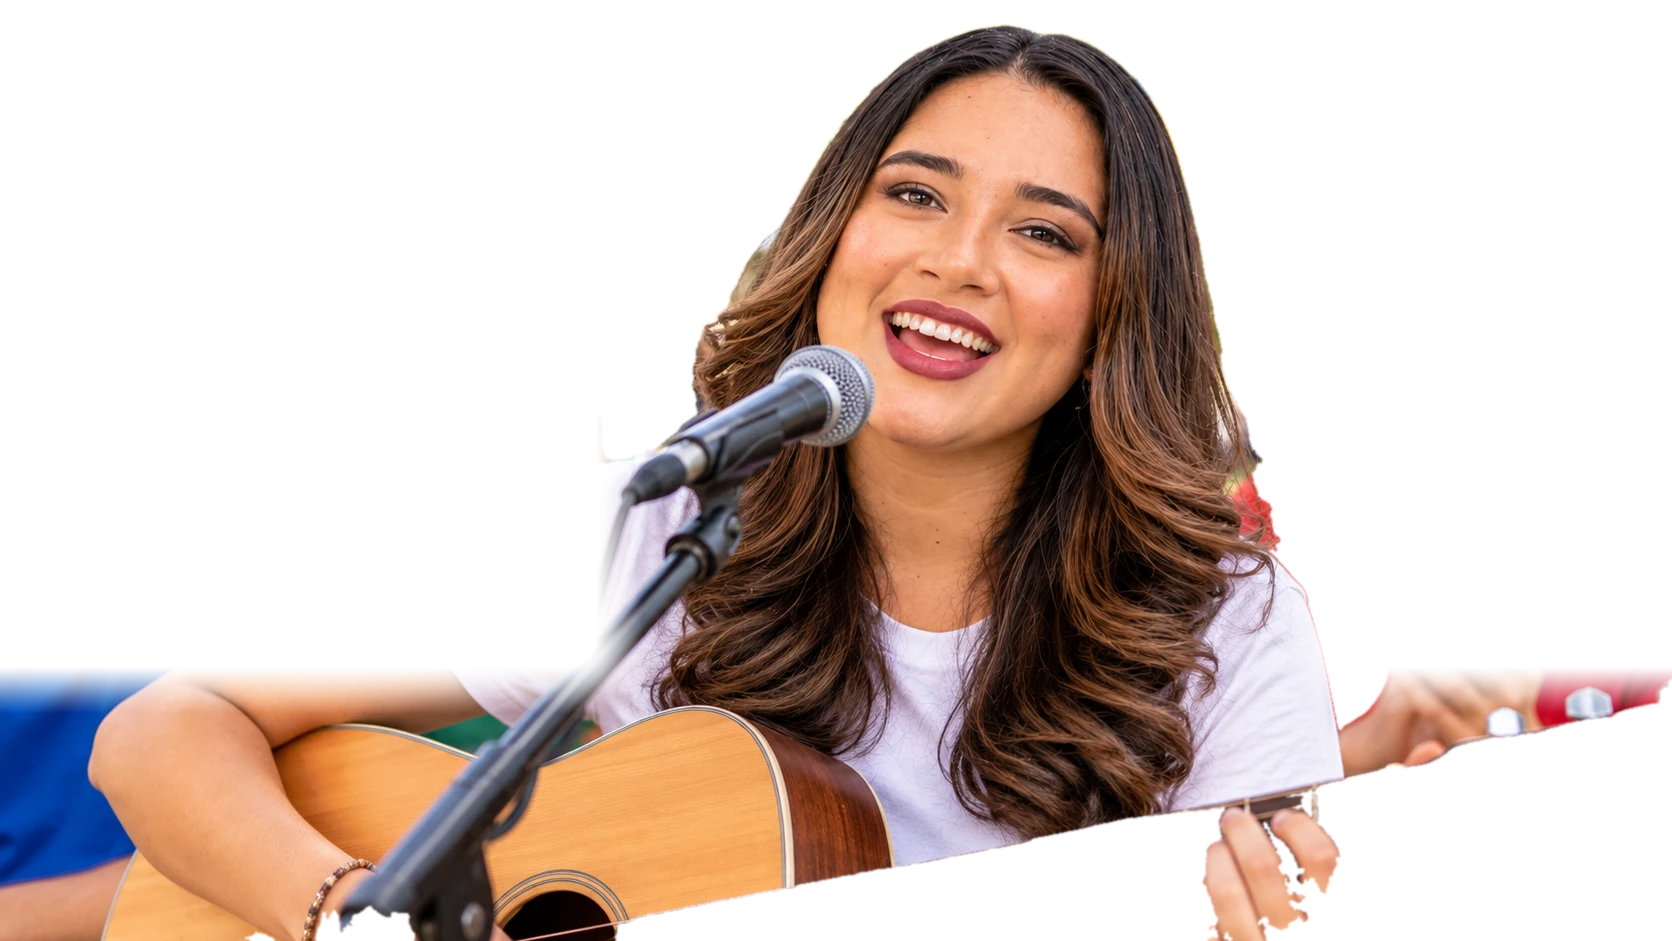
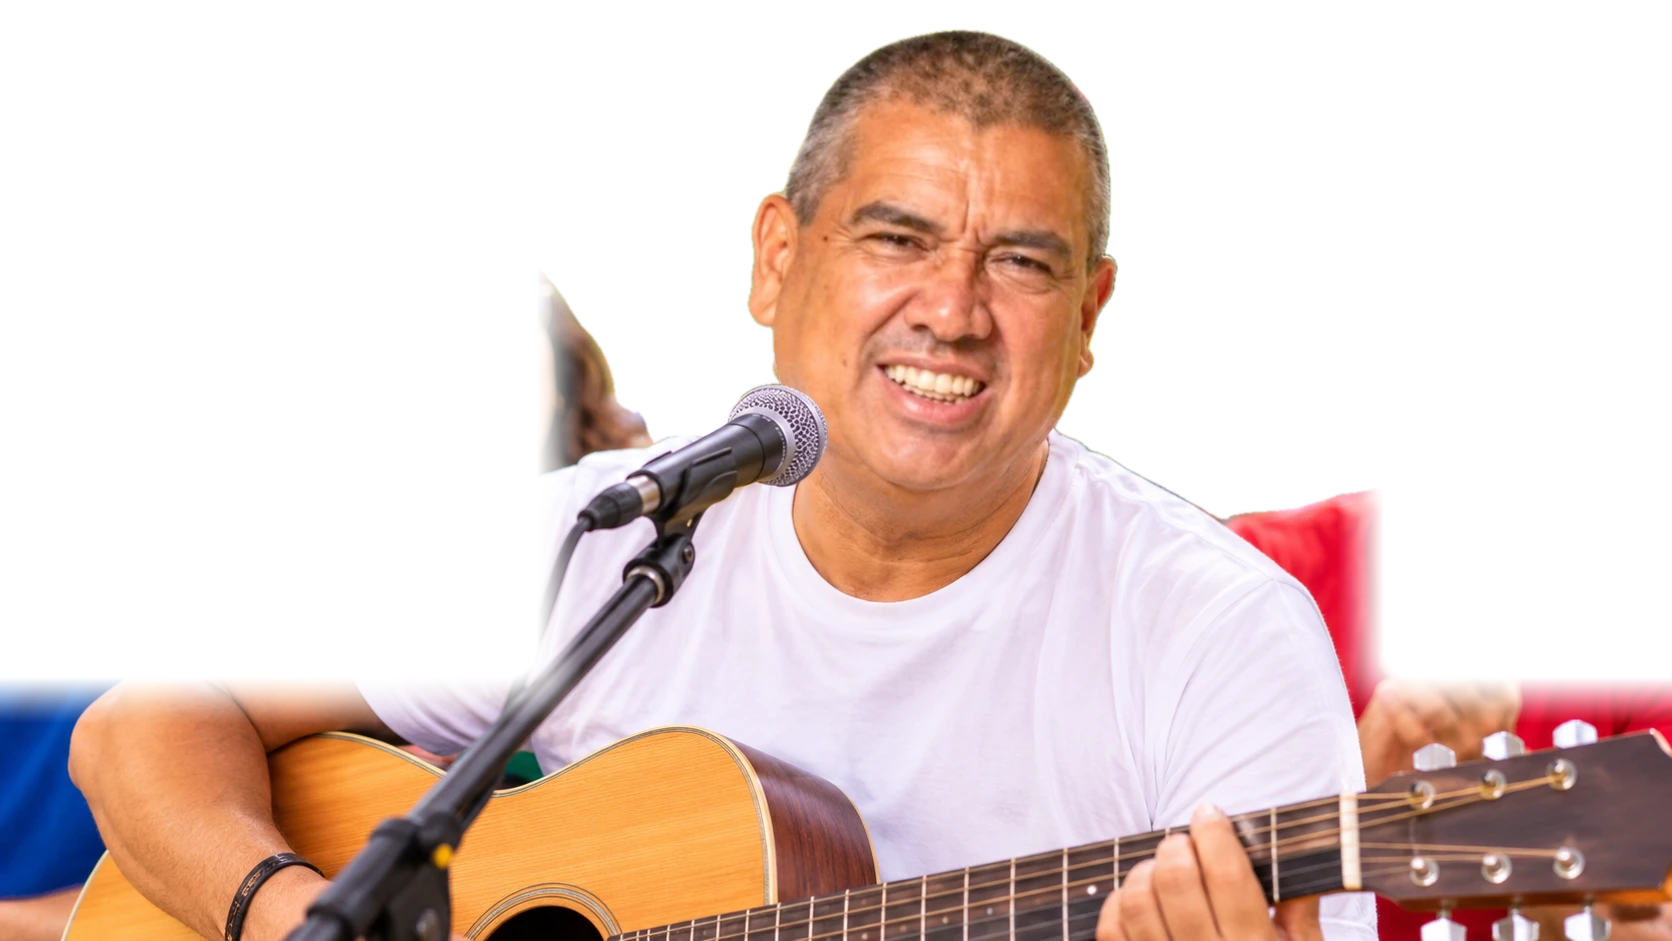
Promo evento: new singer photo, clean statues, flat backgrounds, shirt-color note, 9:00, teams 8 s with shorter bigger names
Claude-Session: https://claude.ai/code/session_01XV7Zhs1JRrkW5hokRDRSy2

diff --git a/videos/promo-encuentro-comunica/index.html b/videos/promo-encuentro-comunica/index.html
@@ -25,7 +25,7 @@
       .ph { position: absolute; left: 0; top: 0; width: 1920px; height: 1080px; transform-origin: 50% 45%; }
       .ph img { position: absolute; inset: 0; width: 1920px; height: 1080px; display: block; }
       /* degradé con transparencia de los 3 colores de COMUNICA: tiñe todo menos al protagonista */
-      .tint { position: absolute; inset: 0; background: linear-gradient(118deg, rgba(244, 187, 26, 0.34) 0%, rgba(26, 166, 212, 0.3) 52%, rgba(54, 192, 196, 0.36) 100%); }
+      .tint { position: absolute; inset: 0; background: rgba(26, 166, 212, 0.28); }
       .shade { position: absolute; inset: 0; background: linear-gradient(0deg, rgba(10, 40, 60, 0.75) 0%, rgba(10, 40, 60, 0.25) 42%, rgba(10, 40, 60, 0) 60%); }
       /* título gigante detrás de la persona */
       .big { position: absolute; left: 0; top: -20px; width: 1920px; text-align: center; font-weight: 900; font-stretch: 115%; font-size: 360px; line-height: 1; letter-spacing: -0.01em; color: transparent; -webkit-text-stroke: 4px rgba(255, 255, 255, 0.95); white-space: nowrap; }
@@ -53,17 +53,17 @@
       .team .side { position: absolute; left: 100px; top: 230px; width: 560px; }
       .team .chip { width: 150px; height: 150px; border-radius: 50%; border: 8px solid #fff; box-shadow: 0 16px 40px rgba(0, 0, 0, 0.25); }
       .team .k2 { margin-top: 34px; display: inline-block; padding: 8px 22px 10px; background: #fff; color: #1f2124; font-weight: 800; font-size: 28px; letter-spacing: 0.18em; }
-      .team .tn { margin-top: 12px; font-weight: 900; font-stretch: 105%; font-size: 112px; line-height: 0.92; }
+      .team .tn { margin-top: 12px; font-weight: 900; font-stretch: 105%; font-size: 124px; line-height: 0.92; }
       .team .tc { margin-top: 14px; font-weight: 700; font-size: 38px; opacity: 0.9; }
-      .team .list { position: absolute; left: 690px; right: 80px; top: 120px; display: grid; grid-template-columns: 1fr 1fr; gap: 16px 26px; }
-      .team .pp { display: flex; align-items: center; gap: 18px; background: rgba(255, 255, 255, 0.96); color: #1f2124; border-radius: 16px; padding: 14px 20px; min-height: 104px; font-weight: 700; font-stretch: 82%; line-height: 1.12; box-shadow: 0 10px 26px rgba(0, 0, 0, 0.16); white-space: nowrap; overflow: hidden; }
+      .team .list { position: absolute; left: 680px; right: 70px; top: 90px; display: grid; grid-template-columns: 1fr 1fr; gap: 16px 26px; }
+      .team .pp { display: flex; align-items: center; gap: 18px; background: rgba(255, 255, 255, 0.96); color: #1f2124; border-radius: 16px; padding: 14px 20px; min-height: 112px; font-weight: 700; font-stretch: 85%; line-height: 1.12; box-shadow: 0 10px 26px rgba(0, 0, 0, 0.16); white-space: nowrap; overflow: hidden; }
       .team .pp i { flex: none; width: 46px; height: 46px; border-radius: 50%; display: flex; align-items: center; justify-content: center; font-style: normal; font-weight: 900; font-size: 24px; font-stretch: 100%; }
       .dot { position: absolute; border-radius: 50%; mix-blend-mode: multiply; }
     </style>
   </head>
   <body>
-    <div id="root" data-composition-id="main" data-start="0" data-duration="113" data-width="1920" data-height="1080">
-      <div id="stage" class="clip" data-start="0" data-duration="113" data-track-index="0">
+    <div id="root" data-composition-id="main" data-start="0" data-duration="146" data-width="1920" data-height="1080">
+      <div id="stage" class="clip" data-start="0" data-duration="146" data-track-index="0">
         <!-- Intro: logo Premios Comunica -->
         <div class="scene" id="s0" style="background: #002c4f">
           <div id="logo2">
@@ -89,7 +89,7 @@
         <!-- Reglas de las competencias -->
         <div class="scene" id="sR">
           <div class="ph" style="filter: blur(6px) saturate(1.1)"><img src="assets/fotos/cuerda.webp" alt="" /></div>
-          <div class="layer" style="background: linear-gradient(118deg, rgba(244, 187, 26, 0.86) 0%, rgba(26, 166, 212, 0.86) 52%, rgba(54, 192, 196, 0.88) 100%)"></div>
+          <div class="layer" style="background: rgba(26, 166, 212, 0.92)"></div>
           <div class="kick" style="position: absolute; left: 110px; top: 90px">01 · COMPETENCIAS</div>
           <div class="ttl" style="position: absolute; left: 110px; top: 150px; font-size: 104px">¿Cómo participamos?</div>
           <div id="stats" style="position: absolute; left: 110px; right: 110px; top: 340px; display: flex; gap: 40px">
@@ -98,16 +98,17 @@
             <div class="stat"><div class="n">1</div><div class="l">color<br />por equipo</div></div>
             <div class="stat"><div class="n">10</div><div class="l">puntos<br />por juego</div></div>
           </div>
-          <div id="rules" style="position: absolute; left: 110px; right: 110px; top: 720px">
+          <div id="rules" style="position: absolute; left: 110px; right: 110px; top: 680px">
             <div class="line" style="font-size: 46px; margin: 0">Todos participan <b>al menos en un juego</b>.</div>
             <div class="line" style="font-size: 46px">El equipo con más puntos gana <b>un premio para cada integrante</b>.</div>
+            <div class="kick" id="shirt" style="margin-top: 26px; font-size: 40px; letter-spacing: 0.06em; padding: 12px 28px 14px">TRAE UNA CAMISETA DEL COLOR DE TU EQUIPO</div>
           </div>
         </div>
 
         <!-- Los juegos -->
         <div class="scene" id="sJ">
           <div class="ph" style="filter: blur(6px)"><img src="assets/fotos/sacos.webp" alt="" /></div>
-          <div class="layer" style="background: linear-gradient(118deg, rgba(244, 187, 26, 0.86) 0%, rgba(26, 166, 212, 0.86) 52%, rgba(54, 192, 196, 0.88) 100%)"></div>
+          <div class="layer" style="background: rgba(26, 166, 212, 0.92)"></div>
           <div class="kick" style="position: absolute; left: 110px; top: 90px">01 · COMPETENCIAS</div>
           <div class="ttl" style="position: absolute; left: 110px; top: 150px; font-size: 104px">Los juegos</div>
           <div id="games" style="position: absolute; left: 110px; right: 110px; top: 330px; display: grid; grid-template-columns: 1fr 1fr; gap: 26px 40px">
@@ -121,7 +122,7 @@
         </div>
 
         <!-- Organización de equipos -->
-        <div class="scene" id="sO" style="background: linear-gradient(118deg, #f4bb1a 0%, #1aa6d4 52%, #36c0c4 100%)">
+        <div class="scene" id="sO" style="background: #1aa6d4">
           <div class="big" style="top: 700px; font-size: 360px; -webkit-text-stroke: 4px rgba(255, 255, 255, 0.6)">EQUIPOS</div>
           <div id="orgT" style="position: absolute; inset: 0; display: flex; flex-direction: column; align-items: center; justify-content: center; text-align: center">
             <div class="kick" style="font-size: 34px">INTEGRACIÓN COMUNICA EP 2026</div>
@@ -134,10 +135,10 @@
 
         <!-- Premios -->
         <div class="scene" id="s2" style="background: #fff">
-          <div class="layer" style="background: linear-gradient(118deg, rgba(244, 187, 26, 0.9) 0%, rgba(26, 166, 212, 0.88) 52%, rgba(54, 192, 196, 0.92) 100%)"></div>
+          <div class="layer" style="background: #1aa6d4"></div>
           <div class="big">PREMIOS</div>
           <div id="statues" style="position: absolute; left: 900px; top: 250px; width: 900px; height: 760px; filter: drop-shadow(0 24px 30px rgba(0, 30, 50, 0.35))">
-            <img src="assets/fotos/statues-cut.png" alt="" style="position: absolute; left: 0; bottom: 0; width: 900px; display: block" />
+            <img src="assets/fotos/statues-clean.png" alt="" style="position: absolute; left: 0; bottom: 0; width: 900px; display: block" />
           </div>
           <div class="shade"></div>
           <div class="info" style="max-width: 760px"><div class="kick">02</div><div class="ttl">Premios</div><div class="line">Premiaremos a los <b>ganadores de las nominaciones</b> de los Premios Comunica en todas sus categorías</div></div>
@@ -164,30 +165,30 @@
         </div>
 
         <!-- Info final -->
-        <div class="scene" id="s5" style="background: linear-gradient(118deg, #f4bb1a 0%, #1aa6d4 52%, #36c0c4 100%)">
+        <div class="scene" id="s5" style="background: #1aa6d4">
           <div class="dot" style="left: -160px; top: -200px; width: 700px; height: 700px; background: rgba(255, 255, 255, 0.18)"></div>
           <div class="dot" style="left: 1400px; top: 640px; width: 680px; height: 680px; background: rgba(255, 255, 255, 0.16)"></div>
           <div id="fin" style="position: absolute; inset: 0; display: flex; flex-direction: column; align-items: center; justify-content: center; text-align: center">
             <div class="kick" style="font-size: 34px">¡TE ESPERAMOS!</div>
             <div style="margin-top: 26px; font-weight: 900; font-stretch: 112%; font-size: 150px; line-height: 0.95; text-shadow: 0 8px 30px rgba(0, 40, 70, 0.25)">Sábado 12<br />de diciembre</div>
-            <div style="margin-top: 26px; font-weight: 700; font-size: 58px">2026 · desde las 8:00</div>
+            <div style="margin-top: 26px; font-weight: 700; font-size: 58px">2026 · desde las 9:00</div>
             <div style="margin-top: 30px; display: inline-block; padding: 14px 44px 18px; background: #fff; color: var(--ink); font-weight: 900; font-size: 64px; letter-spacing: 0.04em">CÍRCULO MILITAR</div>
           </div>
         </div>
 
-        <div class="layer" id="wipe" style="background: linear-gradient(118deg, #f4bb1a 0%, #1aa6d4 52%, #36c0c4 100%); clip-path: circle(0% at 50% 50%)"></div>
+        <div class="layer" id="wipe" style="background: #1aa6d4; clip-path: circle(0% at 50% 50%)"></div>
       </div>
     </div>
 
     <script>
       const tl = gsap.timeline({ paused: true });
-      const TEAMS = {"BLANCO": ["Jimenez Ortega Jorge Washington", "Jimenez Vicente Francisco Yofredy", "Sanchez Barahona Lenin", "Sangoquiza Castro Jairo Josue", "Aguilar Lopez Veronica de los Angeles", "Martinez Yanez Jorge Geovany", "Chasi Malliquinga Giovanny Javier", "Mantilla Orellana Carla Mildred", "Barcenes Lopez Paola Tatiana", "Martínez Yánez Juan Pablo", "Vintimilla Egas Sofia Carolina", "Dayana Rivas"], "NEGRO": ["Estrada Angueta Maria Lorena", "Cevallos Beltran Galo Javier", "Ayala Martinez Jorge Giovanny", "Mites Calderón Diana Isabel", "Noboa Garcia Andres Homero", "Gonzalez Gallegos Maria Gabriela", "Jaramillo Ruiz Javier Alejandro", "Cajamarca Rodriguez Christian Santiago", "Bastidas Sanchez Omar Roberto", "Espinosa Cabrera Jose Luis", "Suarez Andrade Jessica Jeanneth", "Wiltón Sánchez"], "AZUL": ["Mendieta Cabrera Gladis Teresa", "Bazantes Fernandez Emerson Rommel", "Sanchez Arias Nelson Samuel", "Barrera Romero Omar Guillermo", "Ambuludi Freire Ximena Katerine", "Bedon Ruiz Sandra Manuela", "Betancourt Quiñonez Edison Fernando", "Lopez Pino Fernando Mauricio", "Vivanco Arias Santiago David", "Montesdeoca Cedeño Ana Maribel", "Murillo Espinoza Luis Giovany", "Dianna Guevara"], "CELESTE": ["Ortega Paez Irene Elizabeth", "Cadena Tigsi Paul Alejandro", "Calderon Guachamin Richard Fabricio", "Barrera Barriga Erick Lenin", "Arteaga Berrezueta Nataly Vanessa", "Zurita Ruales Pablo Anibal", "Porras Torres Carlos Fernando", "Ulcuango Cuascota Elena Noemi", "Quilachamin Guaman Jonathan Patricio", "Cueva Llumiquinga Julio Cesar", "Zapata Valencia Jorge Anibal", "Estefania Garrido"], "VERDE": ["Cañar Armijos Gabriela Liliana", "Garcia Zambrano Gloria Patricia", "Guanoluisa Acero Jose Daniel", "Boada Quinteros Julio Alberto", "Franco Calixto Angel Dionicio", "Jurado Guerrero Diego Xavier", "Andrade Castro Lautaro Rafael", "Gualotuña Tenemasa Jose Luis", "Calderon Chavez Lizeth Carolina", "Delgado Valencia Felix Hilbeto", "Perea Vizcaino Diana Carolina", "Cayambe Tenorio Byron Marcelo"], "AMARILLO": ["Potosi Moya Joselynne Antonella", "Tashiguano Muzo Carlos Alberto", "Velasquez Benitez Winter Eduardo", "Simbaña Guaña Alex Dario", "Burgos Suarez Jose Ramon", "Aldaz Tipan Paola Estefania", "Bravo Najera David Leonardo", "Guamani Jacome Bryan Andres", "Perez Gonzalez Grace Estefany", "Caiza Jami Erika Priscila", "Santiago Daniel Azuero Patiño", "Jerson Estuardo Chamba Maza"], "MORADO": ["Gonzalez Ochoa Veronica Alexandra", "Piedra Merchan Jonathan Kevin", "Alban Oñate Diana Maribel", "Bacuy Cuichan Maria Nelly", "Amaguaña Caña Christian Leonardo", "Cahueñas Apunte Jhon Patricio", "Guerra Carranza Robert Lester", "Casamen Patiño Washington Ivan", "Cléver Guamaní", "Gomez Godoy Sergio Enrique", "Arturo Caviedes", "Milton Patricio Cueva Loachamin"], "CAFÉ": ["Vargas Chavez Mario Xavier", "Betancourt Navarro Cristhian German", "Churuchumbi Lechon Maria Belen", "Montenegro Viera Efren Arturo", "Leon Rosero Francis Cristina", "Guayanay Flores Jessica Janeth", "Vera Cueva Erick Andres", "Vasco Sanchez Ana Lisbeth", "Saravia Alban Luis Fernando", "Cordova Puga Marcelo David", "Arturo Barriga", "Mao Muñoz"], "GRIS": ["Heredia Torres Jessica Valeria", "Guerrero Quishpe Alvaro Sebastian", "Vinueza Vera Alex Rolando", "Ureña Bermudez Allison Victoria", "Chafuel Medina Christian Vinicio", "Humbser Lanas Sebastian", "Malla Mora Freddy Oswaldo", "Izquierdo Chavarria Javier Eduardo", "Cando Salcedo Pablo Leonardo", "Abarca Guashpa Daniela Carolina", "Dario Jarrin", "Xavier Guerrero"], "ROSA": ["Granda Quiña Amanda Maribel", "Nuñez Briones Julio Adrian", "Saavedra Perez Edison Marcelo", "Andrés Leonardo Moreno Paspuel", "Salazar Arevalo Dario Javier", "Saltos Villamarin Carlos Alberto", "Ubidia Viera Aylin Janise", "Pastaz Bauz Allan Joel", "Baquero Bautista Christian Alejandro", "Mateo Ulloa", "Humberto Germán Barahona Chiguano", "Fernado Proaño"], "NARANJA": ["Andrés Orquera", "Ana Moyano", "Paul Vásquez", "Cristian Llusca Quinaluisa", "Villamarin Peña Luis Andrés", "Salvatierra Pizarro Diana Carolina", "Zumba Rivera José Iván", "Galarza Cerón Ramiro Daniel", "Julia Díaz", "Luis Astudillo Mamarandi", "Fernando Estrada", "Darlin Proaño"]};
+      const TEAMS = {"BLANCO": ["Jimenez Ortega Jorge", "Jimenez Vicente Francisco", "Sanchez Barahona Lenin", "Sangoquiza Castro Jairo", "Aguilar Lopez Veronica", "Martinez Yanez Jorge", "Chasi Malliquinga Giovanny", "Mantilla Orellana Carla", "Barcenes Lopez Paola", "Martínez Yánez Juan", "Vintimilla Egas Sofia", "Dayana Rivas"], "NEGRO": ["Estrada Angueta Maria", "Cevallos Beltran Galo", "Ayala Martinez Jorge", "Mites Calderón Diana", "Noboa Garcia Andres", "Gonzalez Gallegos Maria", "Jaramillo Ruiz Javier", "Cajamarca Rodriguez Christian", "Bastidas Sanchez Omar", "Espinosa Cabrera Jose", "Suarez Andrade Jessica", "Wiltón Sánchez"], "AZUL": ["Mendieta Cabrera Gladis", "Bazantes Fernandez Emerson", "Sanchez Arias Nelson", "Barrera Romero Omar", "Ambuludi Freire Ximena", "Bedon Ruiz Sandra", "Betancourt Quiñonez Edison", "Lopez Pino Fernando", "Vivanco Arias Santiago", "Montesdeoca Cedeño Ana", "Murillo Espinoza Luis", "Dianna Guevara"], "CELESTE": ["Ortega Paez Irene", "Cadena Tigsi Paul", "Calderon Guachamin Richard", "Barrera Barriga Erick", "Arteaga Berrezueta Nataly", "Zurita Ruales Pablo", "Porras Torres Carlos", "Ulcuango Cuascota Elena", "Quilachamin Guaman Jonathan", "Cueva Llumiquinga Julio", "Zapata Valencia Jorge", "Estefania Garrido"], "VERDE": ["Cañar Armijos Gabriela", "Garcia Zambrano Gloria", "Guanoluisa Acero Jose", "Boada Quinteros Julio", "Franco Calixto Angel", "Jurado Guerrero Diego", "Andrade Castro Lautaro", "Gualotuña Tenemasa Jose", "Calderon Chavez Lizeth", "Delgado Valencia Felix", "Perea Vizcaino Diana", "Cayambe Tenorio Byron"], "AMARILLO": ["Potosi Moya Joselynne", "Tashiguano Muzo Carlos", "Velasquez Benitez Winter", "Simbaña Guaña Alex", "Burgos Suarez Jose", "Aldaz Tipan Paola", "Bravo Najera David", "Guamani Jacome Bryan", "Perez Gonzalez Grace", "Caiza Jami Erika", "Santiago Daniel Azuero", "Jerson Estuardo Chamba"], "MORADO": ["Gonzalez Ochoa Veronica", "Piedra Merchan Jonathan", "Alban Oñate Diana", "Bacuy Cuichan Maria", "Amaguaña Caña Christian", "Cahueñas Apunte Jhon", "Guerra Carranza Robert", "Casamen Patiño Washington", "Cléver Guamaní", "Gomez Godoy Sergio", "Arturo Caviedes", "Milton Patricio Cueva"], "CAFÉ": ["Vargas Chavez Mario", "Betancourt Navarro Cristhian", "Churuchumbi Lechon Maria", "Montenegro Viera Efren", "Leon Rosero Francis", "Guayanay Flores Jessica", "Vera Cueva Erick", "Vasco Sanchez Ana", "Saravia Alban Luis", "Cordova Puga Marcelo", "Arturo Barriga", "Mao Muñoz"], "GRIS": ["Heredia Torres Jessica", "Guerrero Quishpe Alvaro", "Vinueza Vera Alex", "Ureña Bermudez Allison", "Chafuel Medina Christian", "Humbser Lanas Sebastian", "Malla Mora Freddy", "Izquierdo Chavarria Javier", "Cando Salcedo Pablo", "Abarca Guashpa Daniela", "Dario Jarrin", "Xavier Guerrero"], "ROSA": ["Granda Quiña Amanda", "Nuñez Briones Julio", "Saavedra Perez Edison", "Andrés Leonardo Moreno", "Salazar Arevalo Dario", "Saltos Villamarin Carlos", "Ubidia Viera Aylin", "Pastaz Bauz Allan", "Baquero Bautista Christian", "Mateo Ulloa", "Humberto Germán Barahona", "Fernado Proaño"], "NARANJA": ["Andrés Orquera", "Ana Moyano", "Paul Vásquez", "Cristian Llusca Quinaluisa", "Villamarin Peña Luis", "Salvatierra Pizarro Diana", "Zumba Rivera José", "Galarza Cerón Ramiro", "Julia Díaz", "Luis Astudillo Mamarandi", "Fernando Estrada", "Darlin Proaño"]};
       const TEAMS_ORDER = Object.keys(TEAMS);
       const TCOL = { BLANCO: ["#eef1f4", "#ffffff", "#1f2124", "#cfd5dc"], NEGRO: ["#1c1d22", "#3a3c44", "#ffffff", "#000"], AZUL: ["#1554c0", "#1aa6d4", "#ffffff", "#1554c0"], CELESTE: ["#2bb6e8", "#8ad8f4", "#ffffff", "#2bb6e8"], VERDE: ["#1f8f4a", "#4cc36e", "#ffffff", "#1f8f4a"], AMARILLO: ["#f4bb1a", "#ffd95a", "#1f2124", "#f4bb1a"], MORADO: ["#6a2fa0", "#9b5fd0", "#ffffff", "#6a2fa0"], "CAFÉ": ["#6b4226", "#a2683f", "#ffffff", "#6b4226"], GRIS: ["#6f7682", "#a3a9b3", "#ffffff", "#6f7682"], ROSA: ["#e8508f", "#f79ac0", "#ffffff", "#e8508f"], NARANJA: ["#ec6f12", "#f9a24b", "#ffffff", "#ec6f12"] };
       const show = (sel, a, b) => { tl.set(sel, { visibility: "visible" }, a); if (b != null) tl.set(sel, { visibility: "hidden" }, b); };
       const T = [0, 5, 27, 33.5, 40, 46.5, 54]; // 13–20 reglas · 20–27 juegos
       // después de la promo: título «Organización de equipos» (4 s) y una lámina por equipo (5 s)
-      const NT = TEAMS_ORDER.length, TD = 5, TO = T[6], TT = TO + 4, DUR = TT + NT * TD;
+      const NT = TEAMS_ORDER.length, TD = 8, TO = T[6], TT = TO + 4, DUR = TT + NT * TD;
 
       /* transición: círculo de color que se abre y se cierra (los 3 círculos de COMUNICA) */
       const wipe = (at) => {
@@ -219,6 +220,8 @@
       tl.fromTo("#sR .ttl", { x: -80, opacity: 0 }, { x: 0, opacity: 1, duration: 0.7, ease: "power3.out" }, 13.2);
       tl.fromTo("#stats .stat", { y: 120, opacity: 0, scale: 0.85 }, { y: 0, opacity: 1, scale: 1, duration: 0.7, ease: "back.out(1.7)", stagger: 0.25 }, 13.6);
       tl.fromTo("#rules .line", { x: -60, opacity: 0 }, { x: 0, opacity: 1, duration: 0.6, ease: "power3.out", stagger: 0.6 }, 15.0);
+      tl.fromTo("#shirt", { scale: 0.6, opacity: 0, transformOrigin: "0% 50%" }, { scale: 1, opacity: 1, duration: 0.6, ease: "back.out(2)" }, 16.4);
+      tl.fromTo("#shirt", { scale: 1 }, { scale: 1.05, duration: 0.4, ease: "sine.inOut", yoyo: true, repeat: 3, immediateRender: false }, 17.2);
       wipe(20); show("#sJ", 20, 27);
       /* Equipos: una lámina por color con sus integrantes */
       TEAMS_ORDER.forEach((team, i) => {
@@ -226,8 +229,8 @@
         const sc = document.createElement("div");
         sc.className = "scene team";
         sc.style.color = ink;
-        const fitName = (n) => Math.min(31, 456 / (0.4 * n.length)).toFixed(1);
-        sc.innerHTML = `<div class="tbg" style="background: linear-gradient(118deg, ${c1} 0%, ${c2} 100%)"></div>
+        const fitName = (n) => Math.min(44, 455 / (0.5 * n.length)).toFixed(1);
+        sc.innerHTML = `<div class="tbg" style="background: ${c1}"></div>
           <div class="ghost" style="font-size: ${Math.min(330, Math.floor(1880 / (team.length * 0.86)))}px; ${ink !== "#ffffff" ? "-webkit-text-stroke: 4px rgba(31, 33, 36, 0.18);" : ""}">${team}</div>
           <div class="side"><div class="chip" style="background: ${chip}"></div><div class="k2">EQUIPO ${i + 1} DE ${NT}</div><div class="tn">${team[0] + team.slice(1).toLowerCase()}</div><div class="tc">${names.length} integrantes</div></div>
           <div class="list">${names.map((n, j) => `<div class="pp" style="font-size: ${fitName(n)}px"><i style="background: ${chip}; color: ${ink === "#ffffff" ? "#fff" : "#1f2124"}; ${team === "BLANCO" ? "border: 3px solid #9aa3ad;" : ""}">${j + 1}</i>${n}</div>`).join("")}</div>`;
@@ -235,7 +238,7 @@
         show(sc, t0, t0 + TD);
         tl.fromTo(sc.querySelector(".side"), { x: -120, opacity: 0 }, { x: 0, opacity: 1, duration: 0.6, ease: "power3.out" }, t0 + 0.05);
         tl.fromTo(sc.querySelector(".ghost"), { y: 80, opacity: 0 }, { y: 0, opacity: 1, duration: 0.8, ease: "expo.out" }, t0 + 0.1);
-        tl.fromTo(sc.querySelectorAll(".pp"), { y: 40, opacity: 0, scale: 0.92 }, { y: 0, opacity: 1, scale: 1, duration: 0.4, ease: "back.out(1.6)", stagger: 0.07 }, t0 + 0.35);
+        tl.fromTo(sc.querySelectorAll(".pp"), { y: 40, opacity: 0, scale: 0.92 }, { y: 0, opacity: 1, scale: 1, duration: 0.4, ease: "back.out(1.6)", stagger: 0.12 }, t0 + 0.35);
         tl.fromTo(sc.querySelector(".tbg"), { opacity: i ? 0 : 1 }, { opacity: 1, duration: 0.3 }, t0);
       });
       tl.fromTo("#sJ .ttl", { x: -80, opacity: 0 }, { x: 0, opacity: 1, duration: 0.7, ease: "power3.out" }, 20.2);
